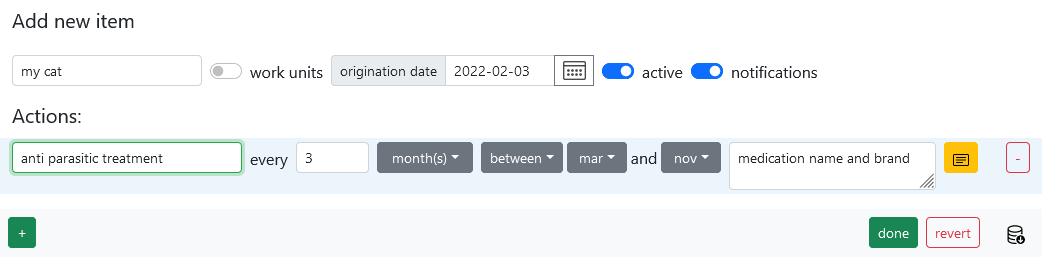
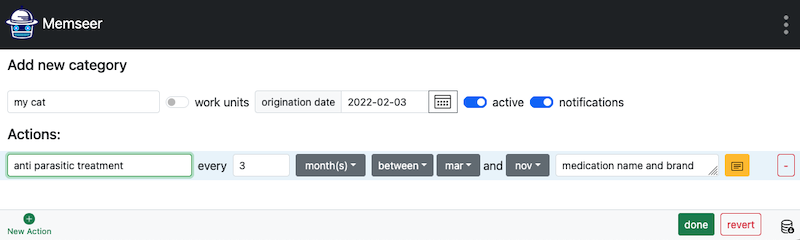
Update: cat example

diff --git a/docs/examples/my_cat.md b/docs/examples/my_cat.md
@@ -7,10 +7,7 @@ nav_order: 7
 
 # My cat (or any other pet)
 
-You got a cat, which needs to be looked after, periodically vaccinated, given anti-parasite medication and occasionally have its nails cut. Let’s create new
-item, so we can effortlessly keep track of all important events. Give it a name and set origination date to the birthday of the cat. Next click “+” and add
-actions such as “anti parasitic treatment”. Consult your veterinarian on the frequency of the treatment. In our example we will set frequency to every 3 month
-and a period from March to November.
+You got a cat, which needs to be looked after, periodically vaccinated, given anti-parasitic medication and occasionally have its nails cut. Let’s create new a item, so we can effortlessly keep track of all important events. Give it a name and set origination date to the birthday of the cat. Next click “New Action +” and add “anti-parasitic treatment”. As per your veterinarian, add the frequency of the treatment. In our example we will set frequency to every 3 months, and the period from March to November.
 
 Navigate to [memseer.com](https://memseer.com){:target="_blank"}
 
@@ -18,7 +15,7 @@ Navigate to [memseer.com](https://memseer.com){:target="_blank"}
 
 Enter your email and password and complete sign in. 
 
-![](../../assets/images/examples/cat/new_item.png)
+![](../../assets/images/examples/cat/new_category.png)
 
 One more thing, it would be nice to have medication name and brand written down, so you don’t have to remember or search
 for it if you need to purchase it again. Click on yellow icon “notes” and add all the information. 
@@ -28,7 +25,7 @@ for it if you need to purchase it again. Click on yellow icon “notes” and ad
 Now click “done” and you will be returned to the dashboard.
 At this point you can start keeping a log of pet’s treatment. Click icon “checkbox” and enter a date when you gave your pet anti parasitic medication last time.
 
-![](../../assets/images/examples/cat/new_event.png)
+![](../../assets/images/examples/cat/new_record.png)
 
 Don’t forget to click “save”, so Memseer remembers the information and calculates next date for the action.
 
